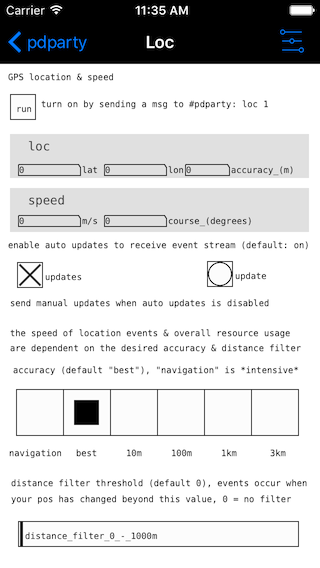
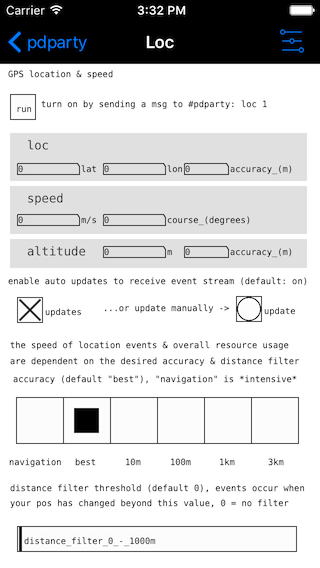
re-added, gps altitude data via #altitude event; added TriSamp thumbnail

diff --git a/src/modules/Osc.m b/src/modules/Osc.m
@@ -168,6 +168,15 @@
 	[connection sendPacket:message toHost:self.sendHost port:self.sendPort];
 }
 
+- (void)sendAltitude:(float)altitude accuracy:(float)accuracy {
+	if(!self.isListening || !self.sensorSendingEnabled) return;
+	OSCMutableMessage *message = [[OSCMutableMessage alloc] init];
+	message.address = OSC_ALTITUDE_ADDR;
+	[message addFloat:altitude];
+	[message addFloat:accuracy];
+	[connection sendPacket:message toHost:self.sendHost port:self.sendPort];
+}
+
 - (void)sendCompass:(float)degrees {
 	if(!self.isListening || !self.sensorSendingEnabled) return;
 	OSCMutableMessage *message = [[OSCMutableMessage alloc] init];

diff --git a/src/modules/Osc.h b/src/modules/Osc.h
@@ -15,6 +15,7 @@
 #define OSC_GYRO_ADDR        @"/pdparty/gyro"
 #define OSC_LOCATION_ADDR    @"/pdparty/loc"
 #define OSC_SPEED_ADDR       @"/pdparty/speed"
+#define OSC_ALTITUDE_ADDR    @"/pdparty/altitude"
 #define OSC_COMPASS_ADDR     @"/pdparty/compass"
 #define OSC_TIME_ADDR        @"/pdparty/time"
 #define OSC_MAGNET_ADDR      @"/pdparty/magnet"
@@ -66,6 +67,9 @@
 
 /// pdparty gps speed event
 - (void)sendSpeed:(float)speed course:(float)course;
+
+/// pdparty gps altitude event
+- (void)sendAltitude:(float)altitude accuracy:(float)accuracy;
 
 /// rj compass event
 - (void)sendCompass:(float)degrees;

diff --git a/src/modules/Sensors.m b/src/modules/Sensors.m
@@ -484,10 +484,12 @@
 					   lon:location.coordinate.longitude
 				  accuracy:location.horizontalAccuracy];
 	[PureData sendSpeed:location.speed course:location.course];
+	[PureData sendAltitude:location.altitude accuracy:location.verticalAccuracy];
 	[self.osc sendLocation:location.coordinate.latitude
 									lon:location.coordinate.longitude
 							   accuracy:location.horizontalAccuracy];
 	[self.osc sendSpeed:location.speed course:location.course];
+	[self.osc sendAltitude:location.altitude accuracy:location.verticalAccuracy];
 }
 
 - (void)sendCompass:(CLHeading *)heading {

diff --git a/src/modules/PureData.m b/src/modules/PureData.m
@@ -201,6 +201,11 @@
 		[NSNumber numberWithFloat:speed], [NSNumber numberWithFloat:course], nil] toReceiver:PARTY_SPEED_R];
 }
 
++ (void)sendAltitude:(float)altitude accuracy:(float)accuracy {
+	[PdBase sendList:[NSArray arrayWithObjects:
+		[NSNumber numberWithFloat:altitude], [NSNumber numberWithFloat:accuracy], nil] toReceiver:PARTY_ALTITUDE_R];
+}
+
 + (void)sendCompass:(float)degrees {
 	[PdBase sendList:[NSArray arrayWithObjects:[NSNumber numberWithFloat:degrees], nil] toReceiver:RJ_COMPASS_R];
 }

diff --git a/src/modules/PureData.h b/src/modules/PureData.h
@@ -36,6 +36,7 @@
 // PdParty event receivers
 #define PARTY_MAGNET_R     @"#magnet"
 #define PARTY_SPEED_R      @"#speed"
+#define PARTY_ALTITUDE_R   @"#altitude"
 #define PARTY_CONTROLLER_R @"#controller"
 
 // incoming event sends
@@ -161,6 +162,9 @@
 
 /// pdparty gps speed event
 + (void)sendSpeed:(float)speed course:(float)course;
+
+/// pdparty gps altitude event
++ (void)sendAltitude:(float)altitude accuracy:(float)accuracy;
 
 /// rj compass event
 + (void)sendCompass:(float)degrees;

diff --git a/doc/guide/PdParty_User_Guide.md b/doc/guide/PdParty_User_Guide.md
@@ -308,7 +308,7 @@ PdParty also supports running "scenes" which are basically folders with a specif
     * _category_
   * requires all event types
   * \#touch positions are normalized from 0-1
-  * sensors are accessed via receivers: \#gyro, \#loc, \#compass, \#magnet, & \#time
+  * sensors are accessed via receivers: \#gyro, \#loc, \#speed, \#altitude, \#compass, \#magnet, & \#time
   * sensors are enabled & updated via control messages to \#pdparty
   * supports game controllers
   * 44100 samplerate
@@ -417,10 +417,13 @@ PdParty returns the following events:
 * **[r \#loc] _lat_ _lon_ _accuracy_**: GPS location
   * _lat_: latitude in degrees
   * _lon_: longitude in degrees
-  * _accuracy_: lat & lon accuracy (+/-) in meters
+  * _accuracy_: lat & lon accuracy in meters; negative values are invalid
 * **[r \#speed] _speed_ _course_**: GPS speed & course heading, only sent if \#loc events are enabled
   * _speed_: instantaneous speed in meters per second, negative values are invalid
   * _course_: direction of travel, N is 0 degrees, E is 90, S is 180, etc; negative values are invalid
+* **[e \#altitude] _altitude_ _accuracy_**: GPS altitude, only sent if \#loc events are enabled
+  * _altitude_: altitude above sea level in meters
+  * _accuracy_: altitude accuracy in meters; negative values are invalid
 * **[r \#compass] _degrees_**: orientation toward magnetic north with the top of UI at 0 degrees
   * _degrees_: heading toward magnetic north -> 0 N, 90 S, 180 S, 270 E
 * **[r \#time]**: timestamp event, see "Timestamps" section"
@@ -461,7 +464,7 @@ _Note: \#touch & \#accelerate events are automatically started for RjDj scenes f
 	Loc test PdParty scene
 </p>
 
-Loc events are essentially GPS location events, dependent on your device's sensors for accuracy (WiFi only, cell tower + GPS chip, etc). Additionally, speed & course events are generated when the location events are enabled.
+Loc events are essentially GPS location events, dependent on your device's sensors for accuracy (WiFi only, cell tower + GPS chip, etc). Additionally, speed & altitude events are generated when the location events are enabled.
 
 Since running the GPS location service will affect battery life in most cases, it must be manually started and configured after the scene is loaded by sending messages to the internal #pdparty receiver:
   
@@ -472,7 +475,7 @@ Since running the GPS location service will affect battery life in most cases, i
 * **\#pdparty loc**: request the current location if automatic updates is disabled
 * **\#pdparty loc accuracy _type_**: set desired accuracy, this setting impacts battery life
   * _type_: desired accuracy as one of the following strings: 
-    * navigation: highest possible accuracy using additional sensors at all times, intended to be used only while the device is plugged in 
+    * navigation: highest possible accuracy using additional sensors at all times, intended to be used only while the device is plugged in
     * best: highest accuracy on battery (default)
     * 10m: accurate to within 10 meters
     * 100m: accurate to within 100 meters
